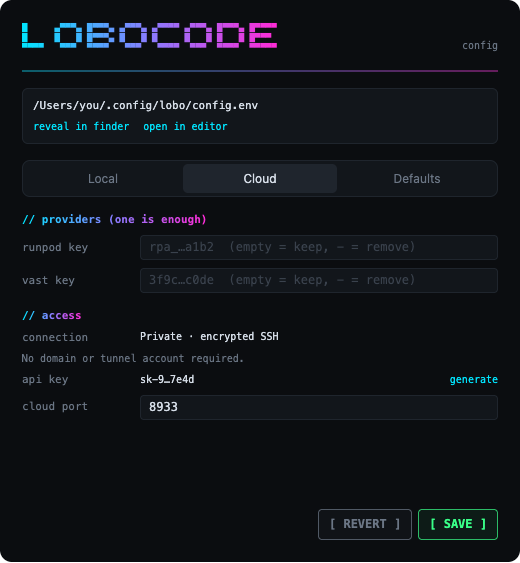
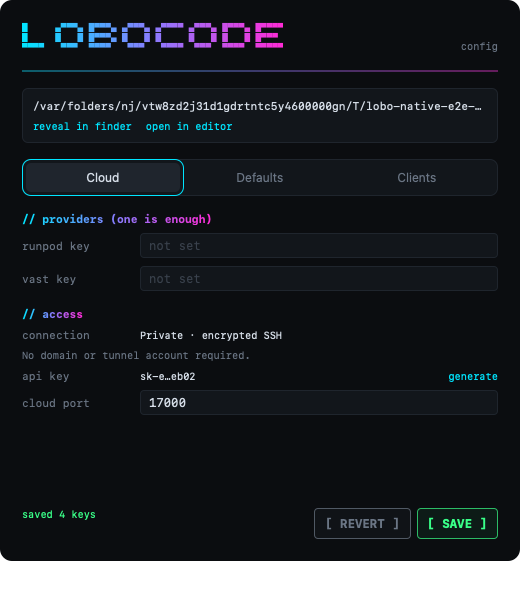
Update cloud-only app screenshots and native validation record

diff --git a/README.md b/README.md
@@ -113,7 +113,8 @@ The [standalone DMG](https://github.com/1905/lobocode/releases/download/app-v0.2
 
 <details><summary>Settings: Cloud, Defaults and Clients</summary>
 <p><img src="assets/settings_cloud.png" width="520" alt="Cloud settings: provider keys, private SSH, API key and cloud port"></p>
-<p><img src="assets/settings_defaults.png" width="520" alt="Defaults: model, context size, shutdown limits and provider options"></p>
+<p><img src="assets/settings_defaults.png" width="520" alt="Cloud defaults: model, context size and shutdown limits"></p>
+<p><img src="assets/settings_clients.png" width="520" alt="Clients: configure OpenCode after the cloud runtime is Ready"></p>
 </details>
 
 ## OpenCode
@@ -126,7 +127,7 @@ Setup authenticates the active endpoint and uses the running model and context l
 
 The app configures the `lobo` provider for its active cloud runtime. Existing provider restrictions remain in place and appear as warnings. A new `lobo` agent enables core coding tools and disables MCP tool and skill access. Existing custom agent controls remain unchanged.
 
-The optional CLI retains its separate export command: `lobo gen-api-key` writes `opencode.lobo.json` for manual merging. It is not required for app setup. The screenshots above predate the Clients tab; native setup acceptance remains pending.
+The optional CLI retains its separate export command: `lobo gen-api-key` writes `opencode.lobo.json` for manual merging. It is not required for app setup. The settings screenshots show native test fixtures. Cloud setup and migration checks are recorded in the [cloud-only app results](plans/2026-10-02-cloud-only-app/results.md).
 
 ## Pod image
 
